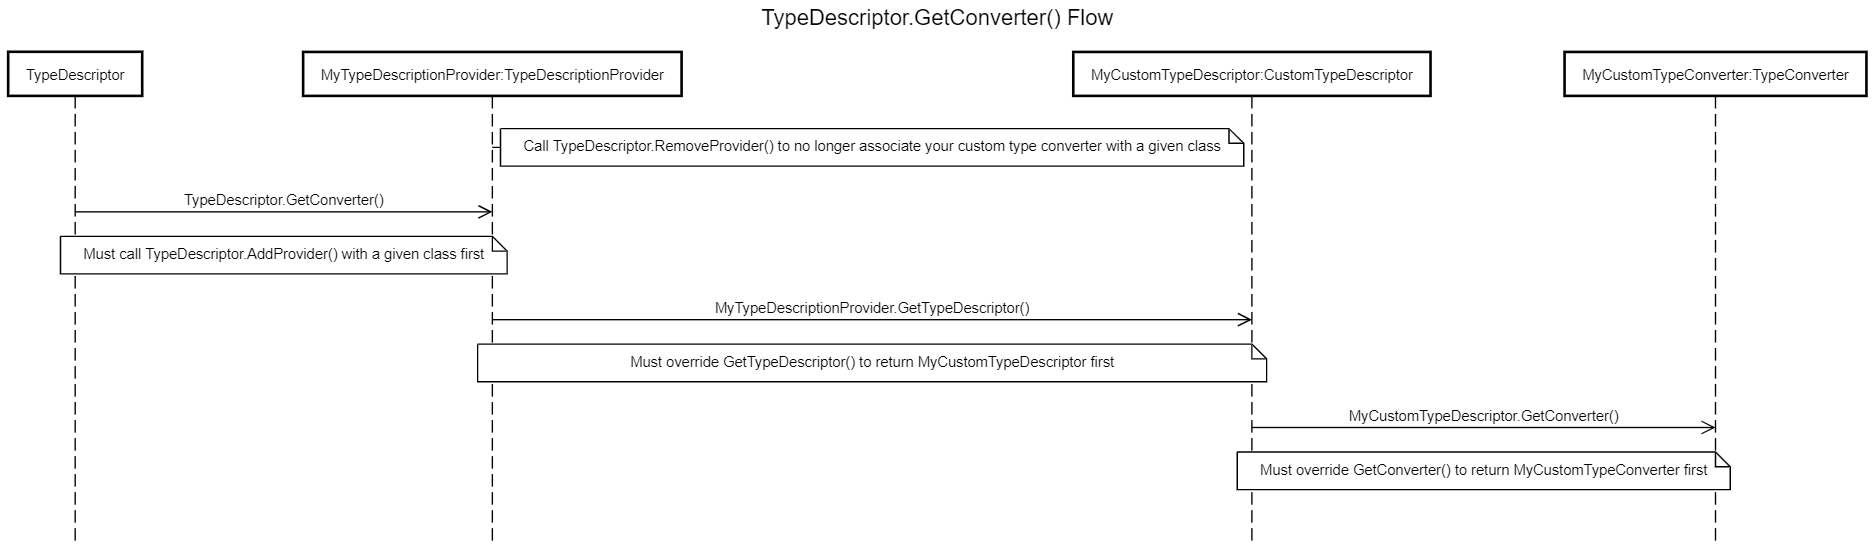
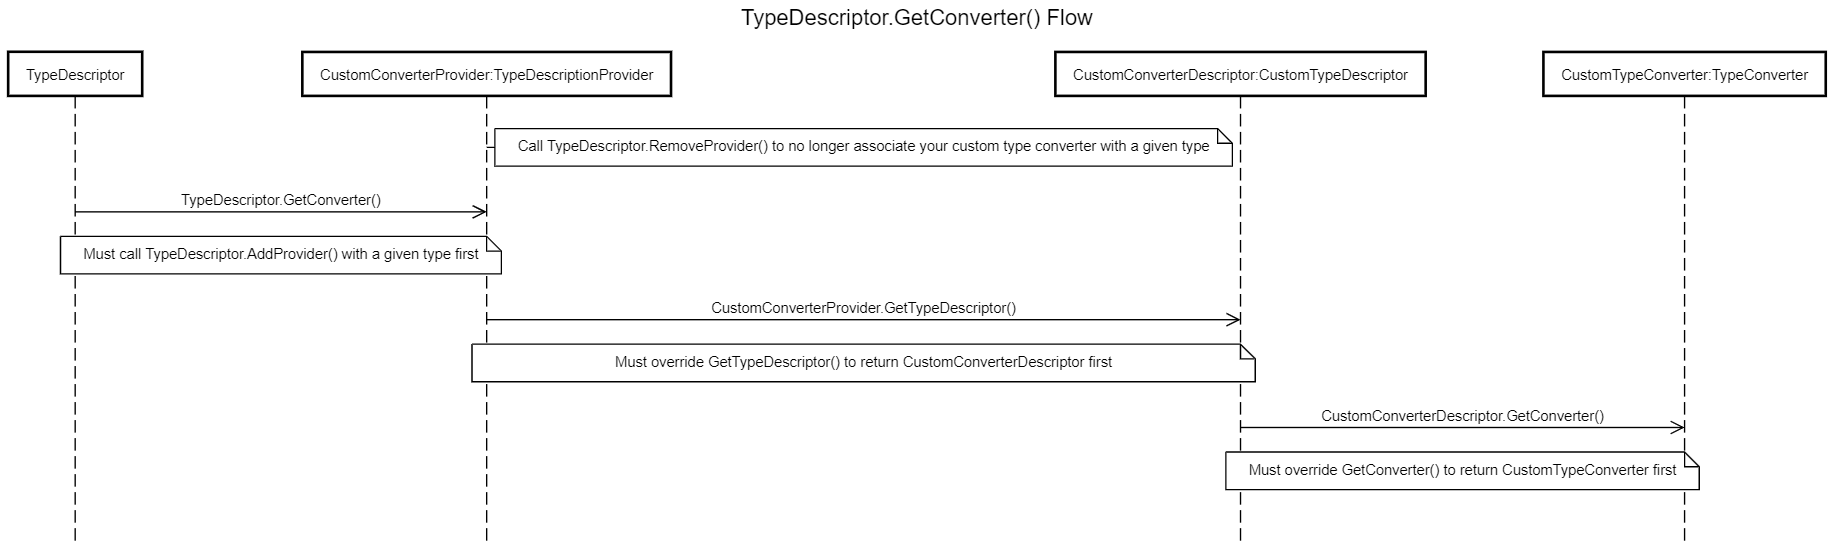
Address feedback

diff --git a/docs/serialization/register-custom-type-converter.md b/docs/serialization/register-custom-type-converter.md
@@ -1,5 +1,5 @@
 # Manually Registering a TypeConverter to a Class
-A type converter is bound to a class by adding the [`TypeConverterAttribute`](https://learn.microsoft.com/dotnet/api/system.componentmodel.typeconverterattribute) to the class. However, there are some scenarios where it is not possible to add the attribute to the class. e.g., user may not own the class, but there is no type converter registered to that class for serialization. This document outlines how to manually register a [`TypeConverter`](https://learn.microsoft.com/dotnet/api/system.componentmodel.typeconverter) to a class for these scenarios.
+A [type converter](https://learn.microsoft.com/dotnet/api/system.componentmodel.typeconverter) is usually bound to a class by adding the [`TypeConverterAttribute`](https://learn.microsoft.com/dotnet/api/system.componentmodel.typeconverterattribute) to the class. When you cannot apply this attribute or want to override it you can programmatically assign a converter instead. This document outlines how to accomplish this.
 
 ## Prerequisite
 Follow the steps to implement your own custom type converter listed [here](https://learn.microsoft.com/dotnet/api/system.componentmodel.typeconverter#notes-to-inheritors).
@@ -7,51 +7,49 @@ Follow the steps to implement your own custom type converter listed [here](https
 ## Registering Your TypeConverter
 
 ### Background
-A [`TypeConverter`](https://learn.microsoft.com/dotnet/api/system.componentmodel.typeconverter) for a given class is found via the `TypeDescriptor` static method [`GetConverter()`](https://learn.microsoft.com/dotnet/api/system.componentmodel.typedescriptor.getconverter). A custom type converter can be associated to a class by providing and registering a [`ICustomTypeDescriptor`](https://learn.microsoft.com/dotnet/api/system.componentmodel.icustomtypedescriptor). Only a single method of the `ICustomTypeDescriptor` methods is important for registering your own type converter. Thus, [`CustomTypeDescriptor`](https://learn.microsoft.com/dotnet/api/system.componentmodel.customtypedescriptor) is a useful existing class that can be utilized as a base class to provide a simple default implementation of `ICustomTypeDescriptor` while only the necessary method for registering your converter is overridden. [`TypeDescriptor.AddProvider()`](https://learn.microsoft.com/dotnet/api/system.componentmodel.typedescriptor.addprovider) is used to add a [`TypeDescriptionProvider`](https://learn.microsoft.com/dotnet/api/system.componentmodel.typedescriptionprovider). This is the final step to fully registering your cutom type converter to a given class. More details on this will follow.
+A [`TypeConverter`](https://learn.microsoft.com/dotnet/api/system.componentmodel.typeconverter) for a given type is found via the `TypeDescriptor` static method [`GetConverter()`](https://learn.microsoft.com/dotnet/api/system.componentmodel.typedescriptor.getconverter). To provide custom `TypeDescriptor` behavior you must create and register a custom type descriptor ([`ICustomTypeDescriptor`](https://learn.microsoft.com/dotnet/api/system.componentmodel.icustomtypedescriptor)) via a [`TypeDescriptionProvider`](https://learn.microsoft.com/dotnet/api/system.componentmodel.typedescriptionprovider).
 
-### Implementing CustomTypeDescriptor
+### Implementing An ICustomTypeDescriptor
 Inherit from [`CustomTypeDescriptor`](https://learn.microsoft.com/dotnet/api/system.componentmodel.customtypedescriptor) to get default [`ICustomTypeDescriptor`](https://learn.microsoft.com/dotnet/api/system.componentmodel.icustomtypedescriptor) behavior and override [`GetConverter()`](https://learn.microsoft.com/dotnet/api/system.componentmodel.customtypedescriptor.getconverter) to return your custom type converter.
 ```c#
-private class MyCustomTypeConverterDescriptor : CustomTypeDescriptor
+private class CustomConverterDescriptor : CustomTypeDescriptor
 {
-    private TypeConverter _myConverter;
+    private TypeConverter _converter;
 
-    public MyCustomTypeConverterDescriptor(ICustomTypeDescriptor parent, TypeConverter converter) : base(parent)
-        => _myConverter = converter;
+    public CustomConverterDescriptor(ICustomTypeDescriptor parent, TypeConverter converter) : base(parent)
+        => _converter = converter;
 
-    public override TypeConverter GetConverter() => _myConverter;
+    public override TypeConverter GetConverter() => _converter;
 }
 ```
 
-`ICustomTypeDescriptor` is accessed through [`TypeDescriptionProvider.GetTypeDescriptor()`](https://learn.microsoft.com/dotnet/api/system.componentmodel.typedescriptionprovider.gettypedescriptor). This method needs to be overridden to provide your newly created `ICustomTypeDescriptor` which provides your custom type converter. Have another class inherit from `TypeDescriptionProvider` to preserve the default behavior and override `GetTypeDescriptor()` to provide `MyCustomTypeConverterDescriptor`.
+An `ICustomTypeDescriptor` is accessed through [`TypeDescriptionProvider.GetTypeDescriptor()`](https://learn.microsoft.com/dotnet/api/system.componentmodel.typedescriptionprovider.gettypedescriptor). This method needs to be overridden to provide your newly created `ICustomTypeDescriptor`. Have another class inherit from `TypeDescriptionProvider` to preserve the default behavior and override `GetTypeDescriptor()` to provide `CustomConverterDescriptor`.
 
 ```c#
-public class MyTypeDescriptionProvider : TypeDescriptionProvider
+public class CustomConverterProvider : TypeDescriptionProvider
 {
-    private TypeConverter _myConverter;
+    private TypeConverter _converter;
 
-    public MyTypeDescriptionProvider(TypeDescriptionProvider parent, TypeConverter converter) : base(parent)
-        => _myConverter = converter;
+    public CustomConverterProvider(TypeDescriptionProvider parent, TypeConverter converter) : base(parent)
+        => _converter = converter;
 
     public override ICustomTypeDescriptor GetTypeDescriptor(Type objectType, object instance) 
-        => new MyCustomTypeConverterDescriptor(base.GetTypeDescriptor(objectType, instance), _myConverter);
+        => new CustomConverterDescriptor(base.GetTypeDescriptor(objectType, instance), _converter);
 
-    // MyCustomTypeConverterDescriptor code...
+    // Consider nesting CustomConverterDescriptor here
 }
 ```
-Note: The parent `TypeDescriptionProvider` to be passed to the constructor can be grabbed by calling [`TypeDescriptor.GetProvider()`](https://learn.microsoft.com/dotnet/api/system.componentmodel.typedescriptor.getprovider) and passing in the class that is intended to be associated to your custom type converter. An example of this will follow.
+Note: The parent `TypeDescriptionProvider` to be passed to the constructor can be found via [`TypeDescriptor.GetProvider()`](https://learn.microsoft.com/dotnet/api/system.componentmodel.typedescriptor.getprovider) and passing in the type that is intended to be associated to your custom type converter. An example of this will follow.
 
 ### Registration/Deregistration
-Once you have `MyTypeDescriptionProvider` and `MyCustomTypeConverterDescriptor` as outlined above, finish up registering your custom `TypeConverter` to a class by calling [`TypeDescriptor.AddProvider()`](https://learn.microsoft.com/dotnet/api/system.componentmodel.typedescriptor.addprovider) with parameters `MyTypeDescriptionProvider` and the class you want your custom converter to be associated with. 
+Once you have `CustomConverterProvider` and `CustomConverterDescriptor` as outlined above, finish up registering your custom `TypeConverter` to a type by calling [`TypeDescriptor.AddProvider()`](https://learn.microsoft.com/dotnet/api/system.componentmodel.typedescriptor.addprovider) with parameters `CustomConverterProvider` and the type you want your custom converter to be associated with. 
 ```c#
-TypeDescriptionProvider parentProvider = TypeDescriptor.GetProvider(classType);
-MyCustomTypeConverterDescriptor newProvider = new(parentProvider, myConverter);
-TypeDescriptor.AddProvider(newProvider, classType);
+TypeDescriptionProvider parentProvider = TypeDescriptor.GetProvider(type);
+CustomConverterProvider newProvider = new(parentProvider, converter);
+TypeDescriptor.AddProvider(newProvider, type);
 ```
 
-At this point, calling [`TypeDescriptor.GetConverter()`](https://learn.microsoft.com/dotnet/api/system.componentmodel.typedescriptor.getconverter) with the same class that was passed to `TypeDescriptor.AddProvider()` will now return your custom type converter! 
-
-If you want this type converter to be temporarily registered to the class, do not forget to call [`TypeDescriptor.RemoveProvider()`](https://learn.microsoft.com/dotnet/api/system.componentmodel.typedescriptor.removeprovider) when finished.
+At this point, calling [`TypeDescriptor.GetConverter()`](https://learn.microsoft.com/dotnet/api/system.componentmodel.typedescriptor.getconverter) with the same type that was passed to `TypeDescriptor.AddProvider()` will now return your custom type converter. To restore the previous behavior call [`TypeDescriptor.RemoveProvider()`](https://learn.microsoft.com/dotnet/api/system.componentmodel.typedescriptor.removeprovider).
 ```c#
 TypeDescriptor.RemoveProvider(newProvider, type);
 ```
@@ -59,6 +57,6 @@ TypeDescriptor.RemoveProvider(newProvider, type);
 ## Additional Information
 
 ### TypeDescriptor.GetConverter() Details
-This is a static method on [`TypeDescriptor`](https://learn.microsoft.com/dotnet/api/system.componentmodel.typedescriptor) that will run through its private list of [`TypeDescriptionProviders`](https://learn.microsoft.com/dotnet/api/system.componentmodel.typedescriptionprovider) and get the provider associated with the class. Once the right provider is found, it will then call [`TypeDescriptionProvider.GetTypeDescriptor()`](https://learn.microsoft.com/dotnet/api/system.componentmodel.typedescriptionprovider.gettypedescriptor) to get an [ICustomTypeDescriptor](https://learn.microsoft.com/dotnet/api/system.componentmodel.icustomtypedescriptor) and call [`ICustomTypeDescriptor.GetConverter()`](https://learn.microsoft.com/dotnet/api/system.componentmodel.icustomtypedescriptor.getconverter) to grab the [`TypeConverter`](https://learn.microsoft.com/dotnet/api/system.componentmodel.typeconverter). 
+This is a static method on [`TypeDescriptor`](https://learn.microsoft.com/dotnet/api/system.componentmodel.typedescriptor) that will run through its private list of [`TypeDescriptionProviders`](https://learn.microsoft.com/dotnet/api/system.componentmodel.typedescriptionprovider) and get the provider associated with the type. Once the right provider is found, it will then call [`TypeDescriptionProvider.GetTypeDescriptor()`](https://learn.microsoft.com/dotnet/api/system.componentmodel.typedescriptionprovider.gettypedescriptor) to get an [ICustomTypeDescriptor](https://learn.microsoft.com/dotnet/api/system.componentmodel.icustomtypedescriptor) and call [`ICustomTypeDescriptor.GetConverter()`](https://learn.microsoft.com/dotnet/api/system.componentmodel.icustomtypedescriptor.getconverter) to grab the [`TypeConverter`](https://learn.microsoft.com/dotnet/api/system.componentmodel.typeconverter). 
 
 ![TypeDescriptor.GetConverter() Flow](../images/typedescriptor-getconverter-flow.png)
